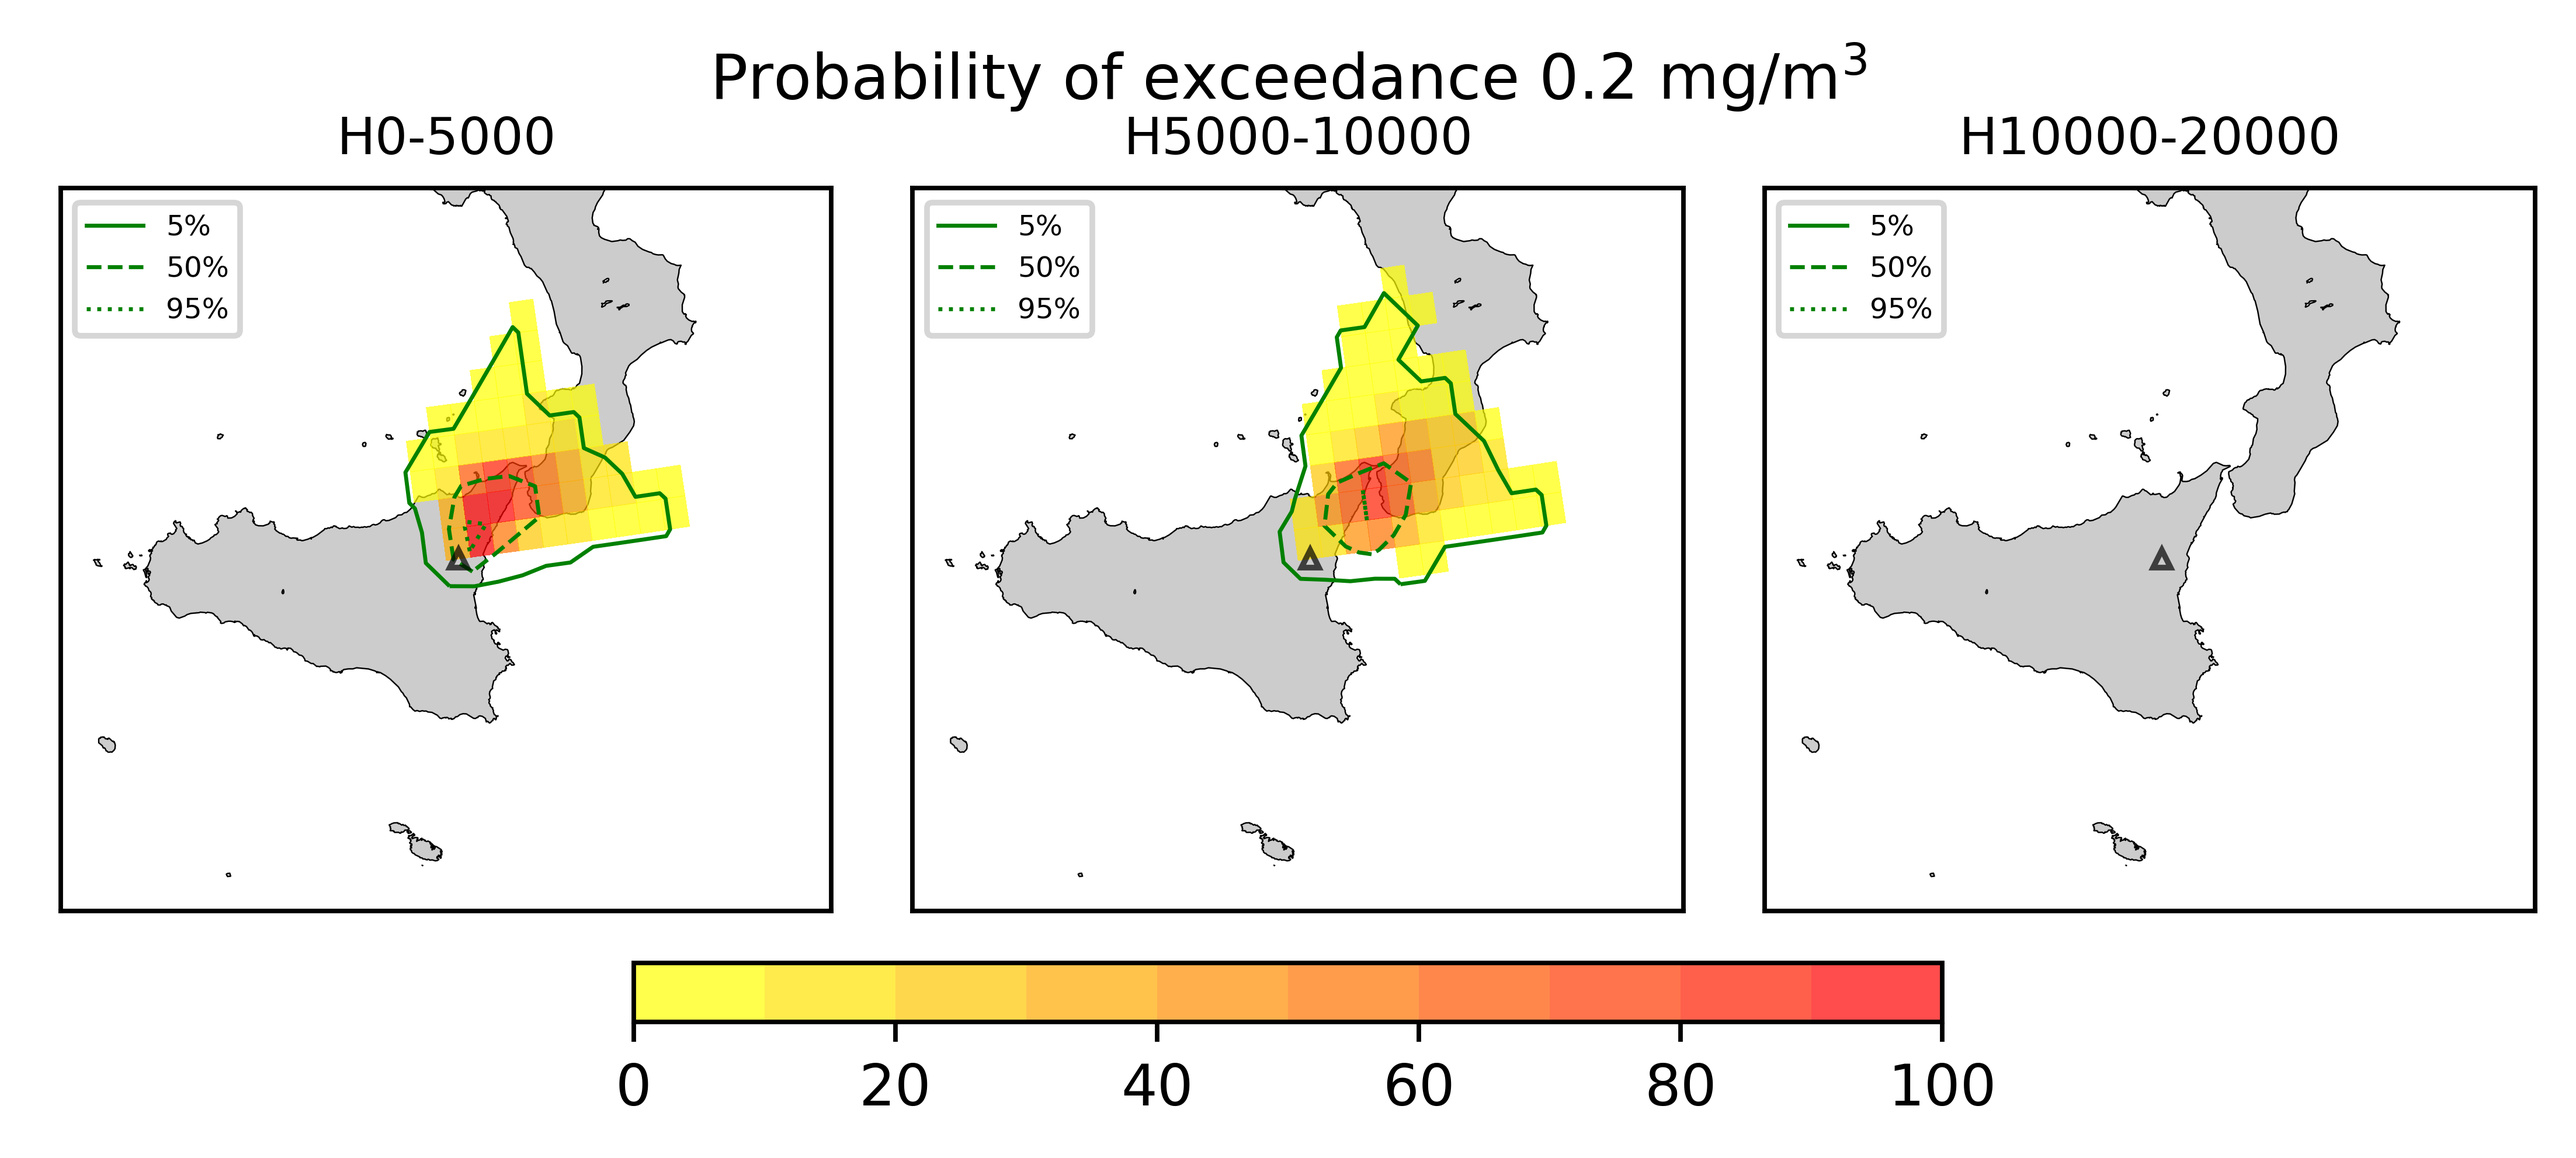
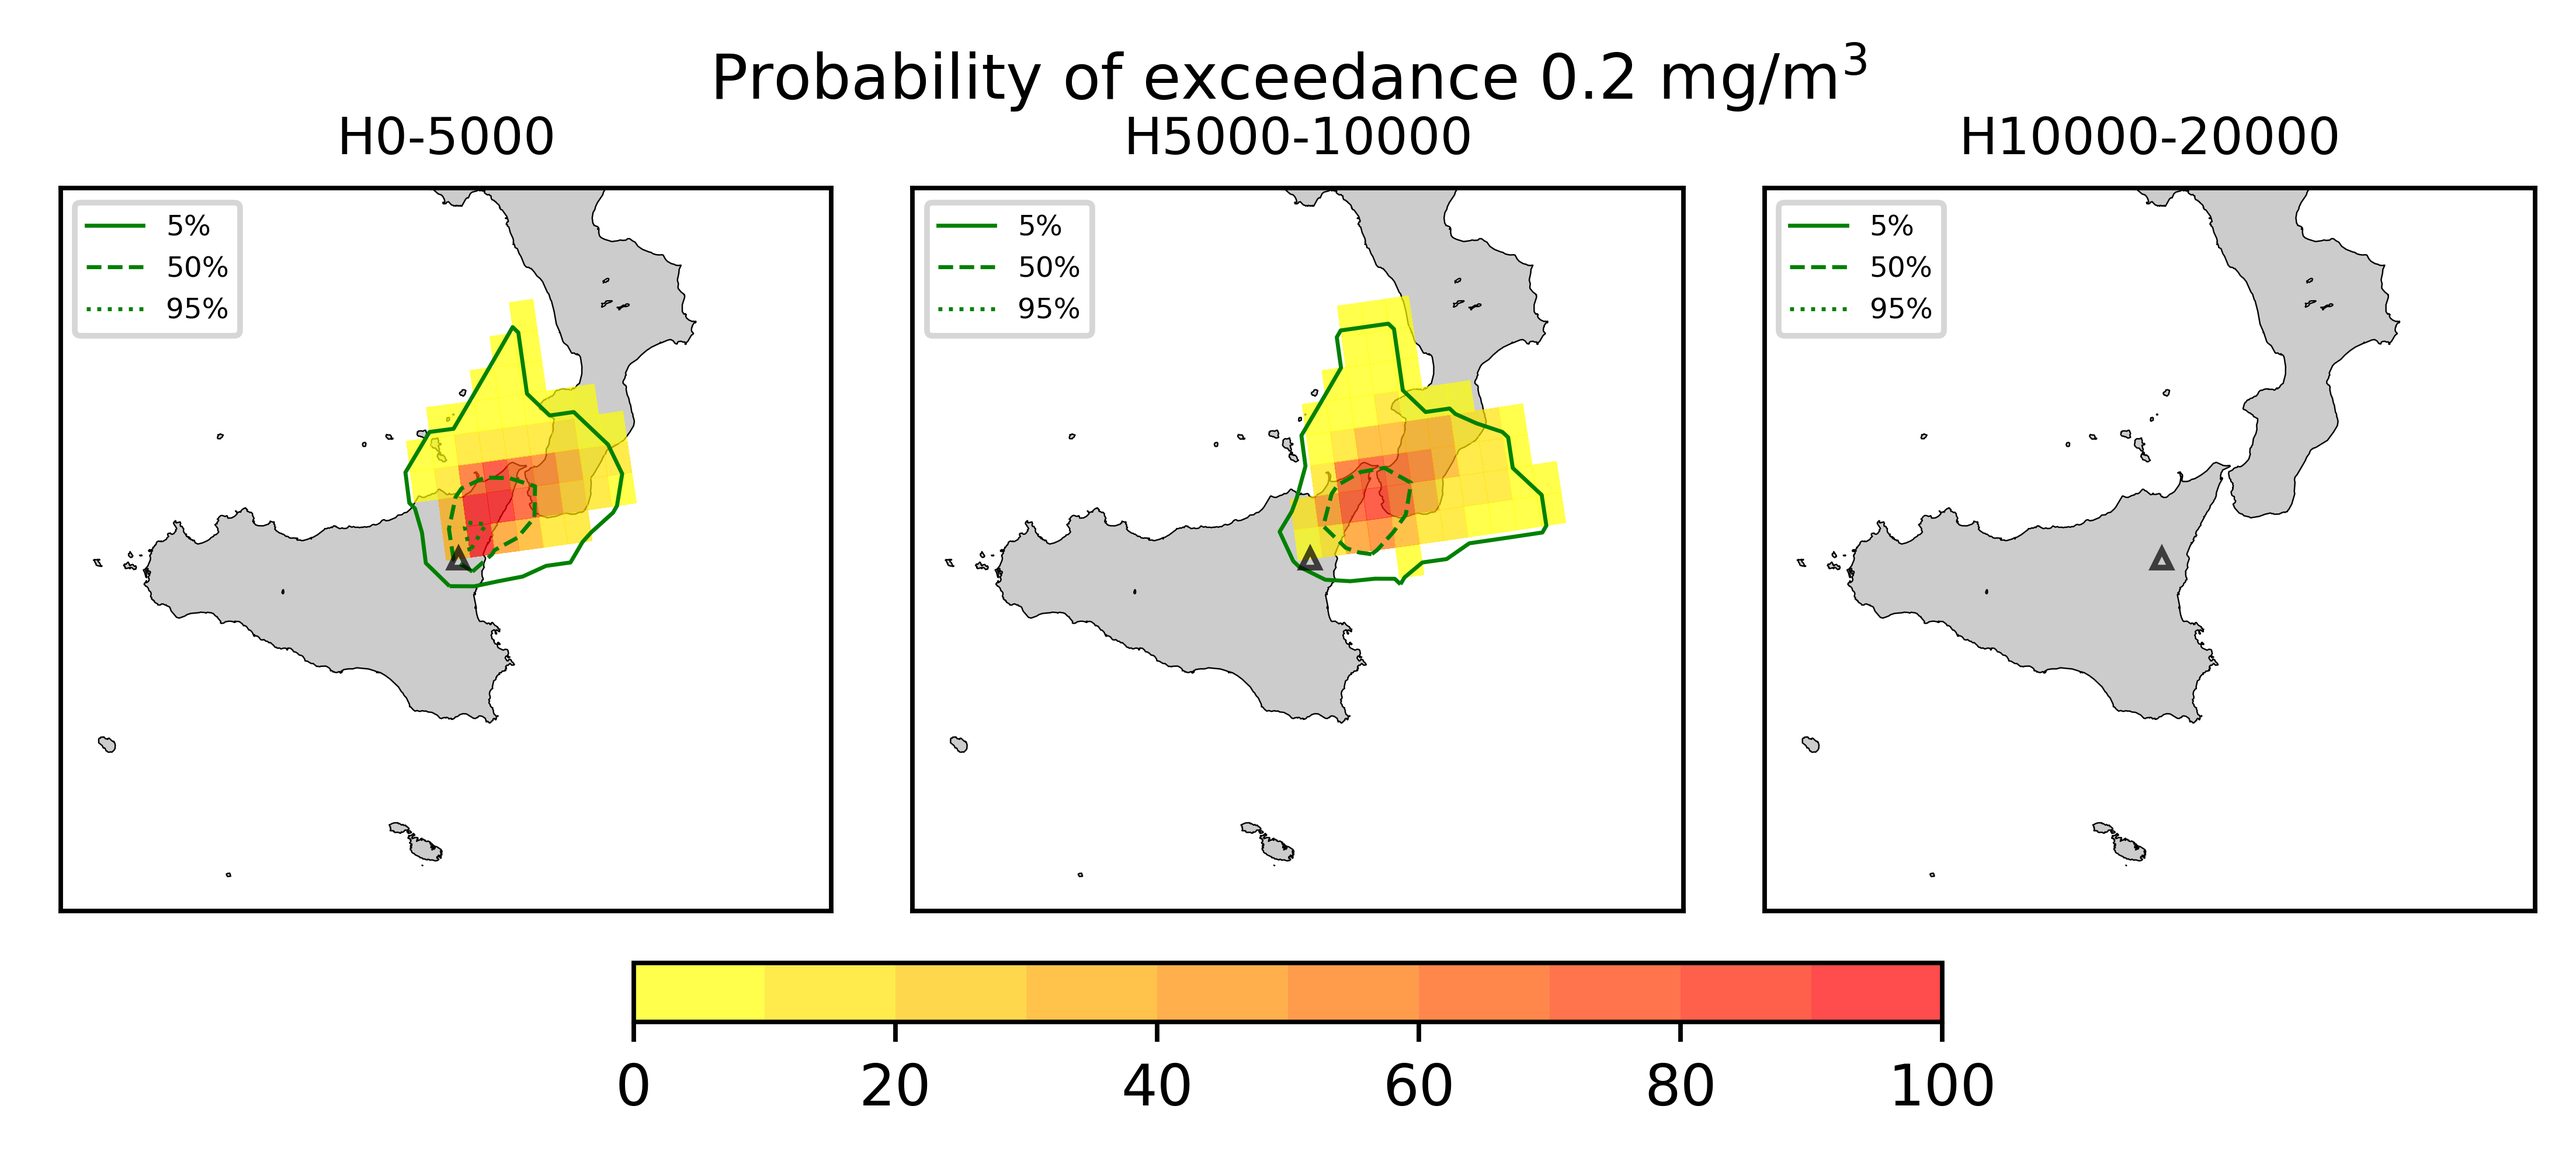
upload results

Changed region(s): [[0.5281, 0.2153, 0.6213, 0.4307], [0.2175, 0.3384, 0.2796, 0.4922], [0.4971, 0.4614, 0.5902, 0.4922]]

diff --git a/FORECAST_RESULTS/20210304_0228Z/README.md b/FORECAST_RESULTS/20210304_0228Z/README.md
@@ -25,6 +25,7 @@ Contents
 	* [Forecast at 2021-03-04 14:20 Z - Terminated Erupion from Orange VONA](#forecast-at-2021-03-04-1420-z---terminated-erupion-from-orange-vona)
 	* [Forecast at 2021-03-04 17:20 Z - Terminated Erupion from Orange VONA](#forecast-at-2021-03-04-1720-z---terminated-erupion-from-orange-vona)
 	* [Forecast at 2021-03-04 20:20 Z - Terminated Erupion from Orange VONA](#forecast-at-2021-03-04-2020-z---terminated-erupion-from-orange-vona)
+	* [Forecast at 2021-03-04 11:20 Z - Terminated Erupion from Orange VONA](#forecast-at-2021-03-04-1120-z---terminated-erupion-from-orange-vona)
 
 # Forecast products
 
@@ -1161,6 +1162,66 @@ Contents
   
 
 ### Atmosphere 2021-03-04 20:20 Z
+
+## Forecast at 2021-03-04 11:20 Z - Terminated Erupion from Orange VONA
   
+
+|Eruption start [Z]|Eruption end [Z]|Forecast time [Z]|Column height asl [m]|
+| :--- | :--- | :--- | :--- |
+|2021-03-04 02:30:00|2021-03-04 10:20:00|2021-03-04 11:20:00|11000.0 ± 500 - from VONA|
+  
+  
+
+|Percentile|MER [kg/s¹]|Mass air [kg]|Mass air nested dom. [kg]|Mass grd [kg]|Mass grd nested dom. [kg]|
+| :--- | :--- | :--- | :--- | :--- | :--- |
+|5th|2.04e+05|1.39e+09|1.12e+09|1.21e+07|1.21e+07|
+|50th|8.94e+05|5.84e+09|2.39e+09|3.54e+08|3.54e+08|
+|95th|2.42e+06|1.49e+10|5.12e+09|2.73e+09|2.72e+09|
+  
+
+### Ground Nested Domain 2021-03-04 11:20 Z
+  
+![](./figures/probability_grd_2021_03_04_1120_grid_1_1001.png)  
+  
+  
+  
+  
+  
+  
+  
+  
+  
+  
+  
+  
+  
+  
+  
+  
+
+|Location|Ground load [kg/m²] 5th perc|Ground load [kg/m²] 50th perc|Ground load [kg/m²] 95th perc|
+| :--- | :--- | :--- | :--- |
+|Piano Provenzana (1)|1.19e-02|1.22e+00|7.58e+00|
+|Bivio Provenzana-Linguaglossa (2)|8.64e-03|7.38e-01|7.96e+00|
+|Cunetta pre-Citelli (3)|6.48e-03|7.03e-01|7.60e+00|
+|Chalet (4)|2.28e-03|4.53e-01|8.03e+00|
+|Ragabo (5)|3.44e-03|5.53e-01|8.00e+00|
+|Scilio (6)|1.51e-03|2.21e-01|6.88e+00|
+|Gambino vini (7)|1.40e-03|2.83e-01|7.99e+00|
+|StazioneFce Linguaglossa (8)|2.00e-03|1.89e-01|5.45e+00|
+|Linguaglossa Via Olivio Sozzi (9)|2.46e-03|1.96e-01|5.08e+00|
+|Cim.Linguaglossa (10)|1.25e-03|1.71e-01|6.20e+00|
+|Gole Bar (11)|1.87e-03|7.60e-02|2.35e+00|
+|Francavilla - Orange (12)|7.96e-04|8.96e-02|1.47e+00|
+|Roccalumera1 (13)|0.00e+00|7.89e-04|2.85e-01|
+|Roccalumera2 (14)|0.00e+00|6.14e-04|2.54e-01|
+|Nizza (15)|0.00e+00|6.78e-04|1.92e-01|
+|Scaletta Zanclea (16)|0.00e+00|7.85e-05|9.00e-02|
+|Alì (17)|0.00e+00|3.58e-04|1.59e-01|
+  
+
+### Atmosphere 2021-03-04 11:20 Z
+  
+![](./figures/probability_air_2021_03_04_1120_grid_2_conclev_1_1001.png)  
 Go to [Supplementary page](Supplementary_page.md)  
 Go to [Main directory](https://github.com/federicapardini/Real_time_ash_forecast)
